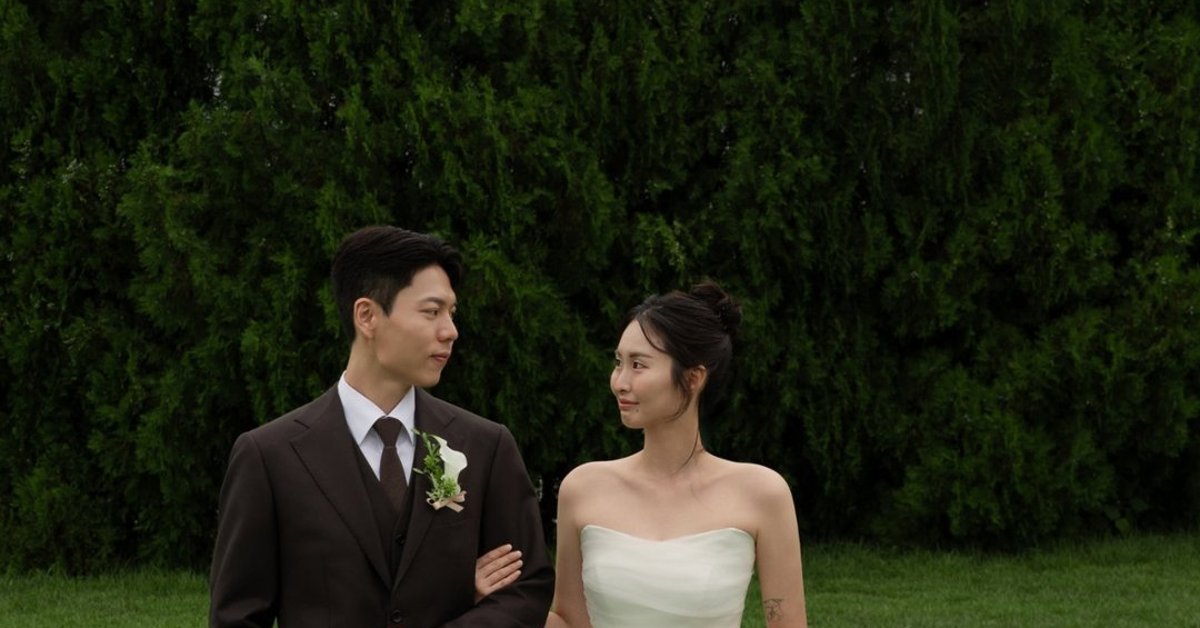
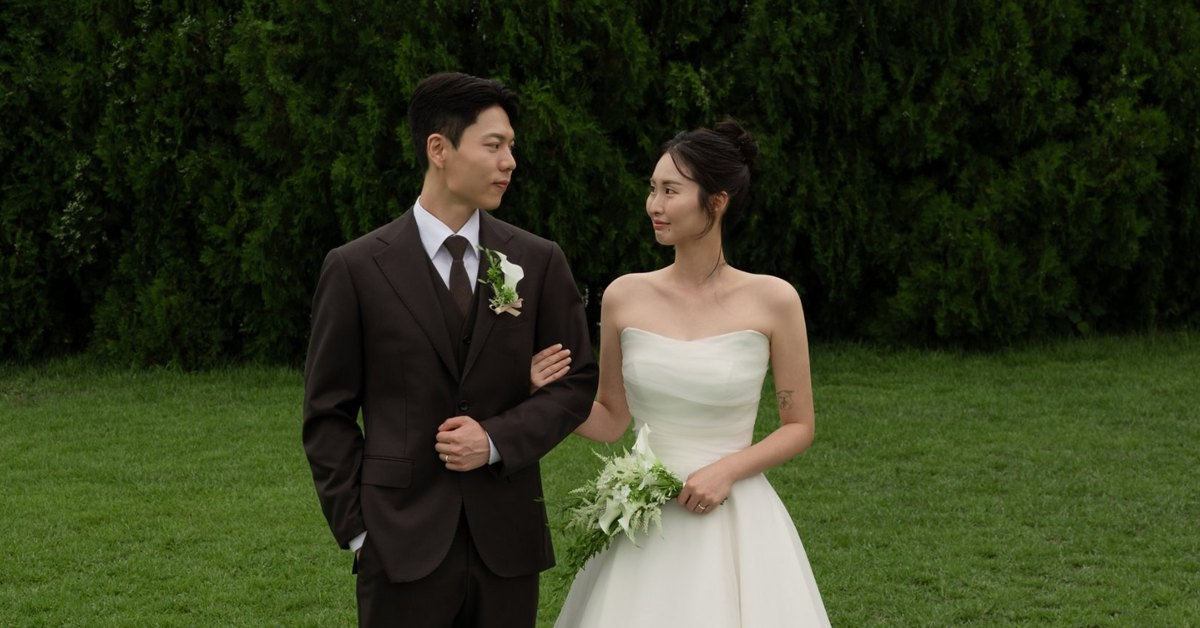
Add files via upload

diff --git a/index.html b/index.html
@@ -5,12 +5,14 @@
 <meta name="viewport" content="width=device-width, initial-scale=1">
 <title>2월 27일 정진욱 ♥ 엄예진 결혼합니다</title>
 <meta name="description" content="2027년 2월 27일 토요일 오후 3시 30분, 아벤티움 서울 3층 단독홀">
-<!-- 카카오톡·문자 미리보기 — 주소가 정해지면 SITE-URL 두 곳을 실제 주소로 바꿔 주세요 -->
+<!-- 카카오톡·문자 미리보기 — 주소가 정해지면 https://ghddodcks12-wq.github.io/jinwook-yejin 두 곳을 실제 주소로 바꿔 주세요 -->
 <meta property="og:type" content="website">
 <meta property="og:title" content="2월 27일 정진욱 ♥ 엄예진 결혼합니다">
 <meta property="og:description" content="2027년 2월 27일 토요일 오후 3시 30분 · 아벤티움 서울 3층 단독홀">
-<meta property="og:image" content="SITE-URL/assets/og.jpg">
-<meta property="og:url" content="SITE-URL/">
+<meta property="og:image" content="https://ghddodcks12-wq.github.io/jinwook-yejin/assets/og.jpg?v=4">
+<meta property="og:image:width" content="1200">
+<meta property="og:image:height" content="628">
+<meta property="og:url" content="https://ghddodcks12-wq.github.io/jinwook-yejin/">
 <link rel="preconnect" href="https://fonts.googleapis.com">
 <link rel="preconnect" href="https://fonts.gstatic.com" crossorigin>
 <link href="https://fonts.googleapis.com/css2?family=Poppins:wght@300;400;500&family=Crimson+Pro:ital,wght@0,400;1,400&family=Bona+Nova+SC&family=Mrs+Saint+Delafield&family=Gowun+Dodum&family=Noto+Sans+KR:wght@300;400;500;600&family=Noto+Serif+KR:wght@400;600&display=swap" rel="stylesheet">
@@ -885,7 +887,7 @@ const whenNear = (el, fn) => { const o = new IntersectionObserver(es => { if (es
   $('#rsMinus').onclick = () => setCount(count - 1); $('#rsPlus').onclick = () => setCount(count + 1);
   const sync = () => { const go = form.attend.value === '참석'; $('#rsCountWrap').hidden = !go; $('#rsMealWrap').hidden = !go; };
   form.addEventListener('change', sync);
-  const showDone = () => { done.hidden = !mine; if (mine) { done.textContent = `${mine.name}님, ${mine.attend === '참석' ? `${mine.count}명 참석으로` : '불참으로'} 전달됐어요. 다시 누르면 수정할 수 있어요.`; $('#openRsvp').textContent = '참석 의사 수정하기'; } };
+  const showDone = () => {};   // 전달 결과는 하단 알림(토스트)으로만 안내
   let checked = false;
   $('#openRsvp').onclick = async () => {
     if (!checked) { checked = true; const s = await getSvc(); db = s.db; me = s.me;
@@ -897,7 +899,7 @@ const whenNear = (el, fn) => { const o = new IntersectionObserver(es => { if (es
     const name = $('#rsName').value.trim(); if (!name) { toast('성함을 적어 주세요'); return $('#rsName').focus(); }
     const attend = form.attend.value, data = { side: form.side.value, attend, name, count: attend === '참석' ? count : 0, meal: attend === '참석' ? form.meal.value : '', msg: $('#rsMsg').value.trim(), ts: Date.now() };
     const btn = $('#rsSave'); btn.disabled = true;
-    try { await db.doc('rsvp/' + me).set(data); mine = data; closeSheet(sheet); toast('참석 의사를 전달했어요'); showDone(); }
+    try { await db.doc('rsvp/' + me).set(data); mine = data; closeSheet(sheet); toast(data.attend === '참석' ? `${data.name}님, ${data.count}명 참석으로 전달했어요` : `${data.name}님, 불참으로 전달했어요`); }
     catch (err) { toast('전달하지 못했어요. 잠시 후 다시 시도해 주세요'); }
     btn.disabled = false; });
 })();
